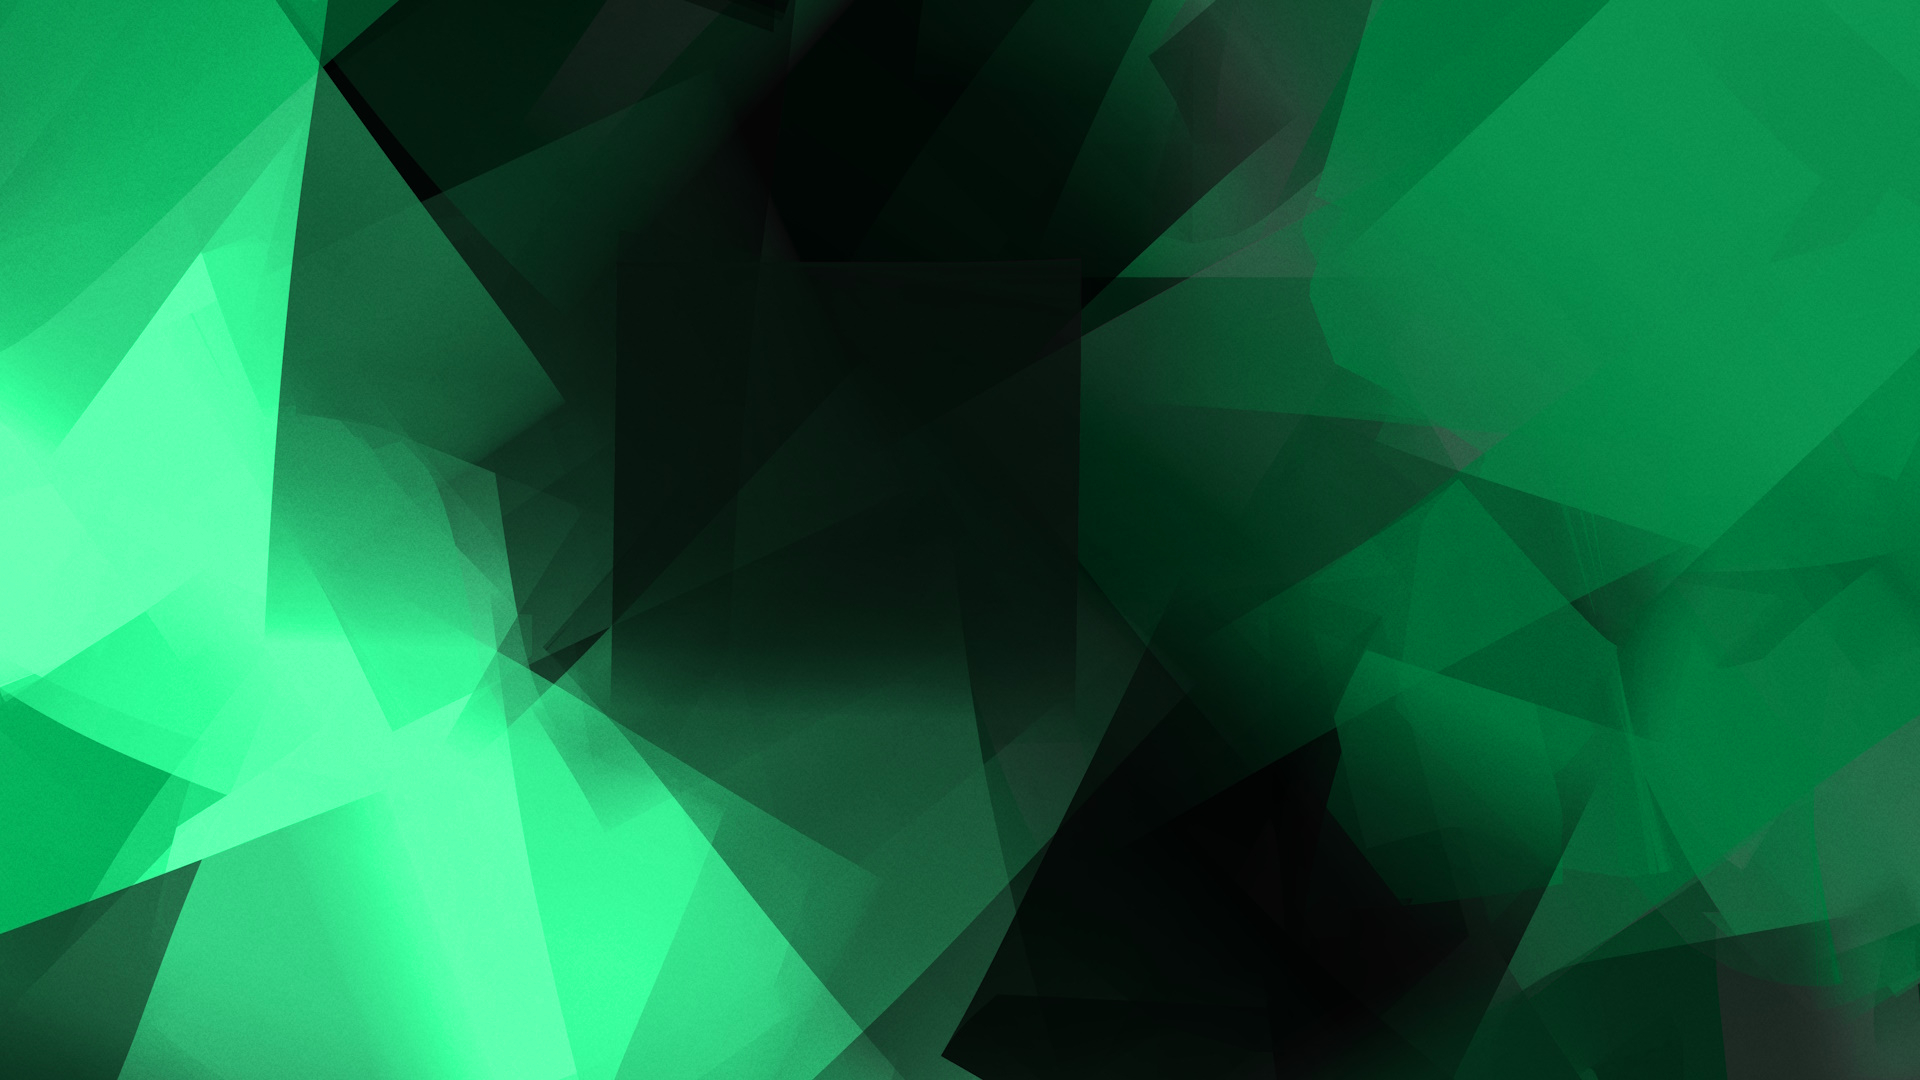
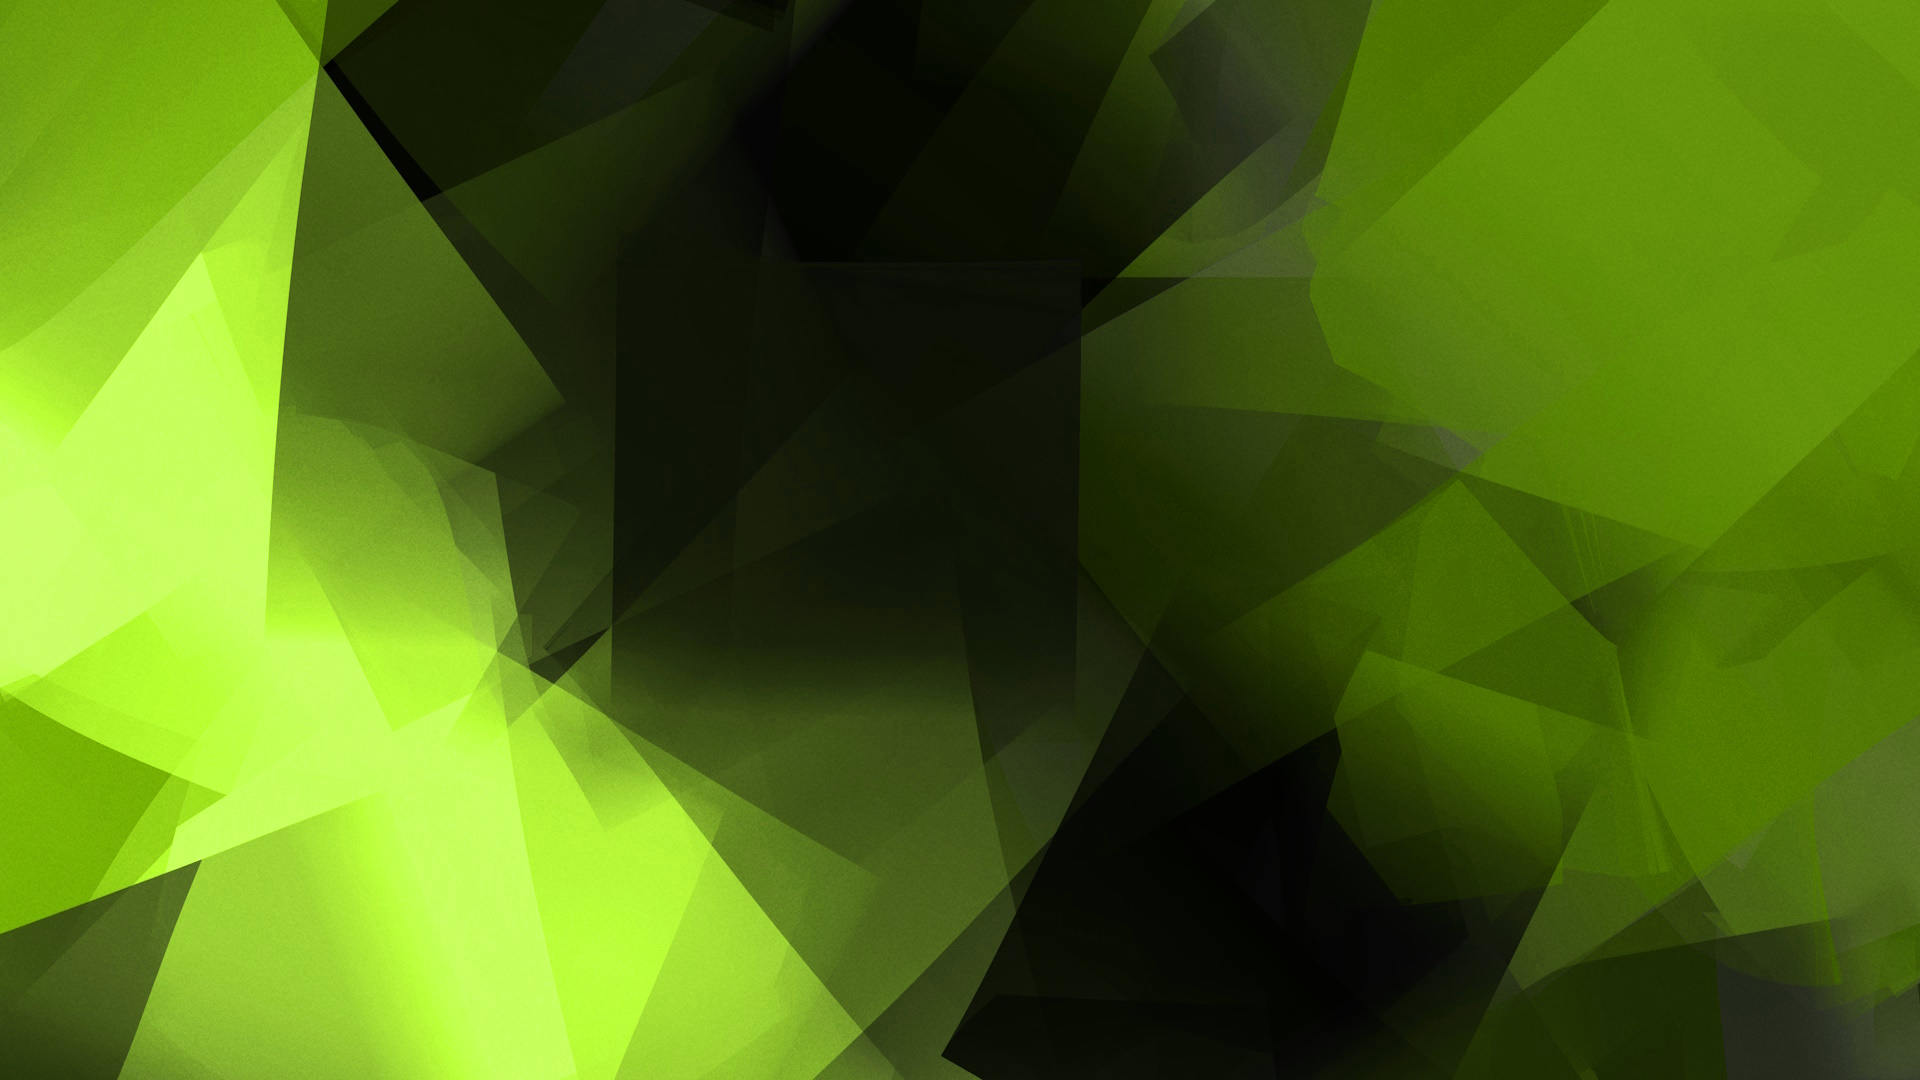
the gif update

diff --git a/palace/2024.html b/palace/2024.html
@@ -17,8 +17,8 @@
      <header id="widget-box">
           <h1 id="widget-name">Alliumchocolate</h1>
           <p id="widget-pronouns">she/they</p>
-          <p class="widget-bio">Hi! Welcome to The Mind Palace project. You're currently in the Northern Tower.</p>
-          <p class="widget-bio"><a href="index.html">Click here to go back.</a></p>
+          <p class="widget-bio">Hi! Welcome to The Palace grounds. You're currently in the tower MMXXIV.</p>
+          <p class="widget-bio"><a href="grounds.html">Click here to go back.</a></p>
      </header>
      
      <!-- the tower structure -->  
@@ -27,14 +27,14 @@
      <!-- Introduction post -->
      <article class="in-tower">
           <h1 class="centered">TOWER MMXXIV</h1>
-          <p>This tower stands tall above the clouds, shining in gold plating. You get a sense this structure has been built with great effort, yet it composes a serene scene.</p>
+          <p>This tower stands on solid rock foundation. You get a sense this structure has been built with great effort, yet it composes a serene scene.</p>
           <figure>
                <blockquote cite="@captainskells">The same circle of hell that allium chocolate got their energy and talent from</blockquote>
                <figcaption>quote from <strong>@captianskells</strong>, my friend</figcaption>
           </figure>
      </article>  
      
-     <div style="z-index: 0">
+     <div style="z-index: 1">
      <!-- The 2024 gallery panel -->
      <section class="in-tower" style="z-index: 1">
           <h2 class="centered">And it was 2024</h2>
@@ -362,7 +362,7 @@
      
      <!-- The tower base -->
      <footer class="in-tower" style="z-index: 0">
-          <img class="reset-style" src="/content/2021_footer.png" >
+          <img class="reset-style" src="/content/2024_footer.gif" >
           <h3 class="centered">Tower MMXXIV</h3>
           <div id="footer-nav">
                <a href="2023.html">2023</a>   

diff --git a/palace/2023.html b/palace/2023.html
@@ -17,8 +17,8 @@
      <header id="widget-box">
           <h1 id="widget-name">Alliumchocolate</h1>
           <p id="widget-pronouns">she/they</p>
-          <p class="widget-bio">Hi! Welcome to The Mind Palace project. You're currently in the Northern Tower.</p>
-          <p class="widget-bio"><a href="index.html">Click here to go back.</a></p>
+          <p class="widget-bio">Hi! Welcome to The Palace grounds. You're currently in the tower MMXXIII.</p>
+          <p class="widget-bio"><a href="grounds.html">Click here to go back.</a></p>
      </header>
      
      <!-- the tower structure -->  
@@ -35,7 +35,7 @@
           </figure>
      </article>  
      
-     <div style="z-index: 0">
+     <div style="z-index: 1">
      <!-- The 2023 gallery panel -->
      <section class="in-tower" style="z-index: 1">
           <h2 class="centered">Another year goes by: 2023</h2>
@@ -410,7 +410,7 @@
      
      <!-- The tower base -->
      <footer class="in-tower" style="z-index: 0">
-          <img class="reset-style" src="/content/2021_footer.png" >
+          <img class="reset-style" src="/content/2023_footer.png" >
           <h3 class="centered">Tower MMXXIII</h3>
           <div id="footer-nav">
                <a href="2022.html">2022</a>   

diff --git a/palace/2022.html b/palace/2022.html
@@ -17,8 +17,8 @@
      <header id="widget-box">
           <h1 id="widget-name">Alliumchocolate</h1>
           <p id="widget-pronouns">she/they</p>
-          <p class="widget-bio">Hi! Welcome to The Mind Palace project. You're currently in the Northern Tower.</p>
-          <p class="widget-bio"><a href="index.html">Click here to go back.</a></p>
+          <p class="widget-bio">Hi! Welcome to The Palace grounds. You're currently in the tower MMXXII.</p>
+          <p class="widget-bio"><a href="grounds.html">Click here to go back.</a></p>
      </header>
      
      <!-- the tower structure -->  
@@ -34,7 +34,7 @@
           </figure>
      </article>  
      
-     <div style="z-index: 0">
+     <div style="z-index: 1">
      <!-- The 2022 gallery panel -->
      <section class="in-tower" style="z-index: 1">
           <h2 class="centered">And so the year was 2022</h2>
@@ -325,7 +325,7 @@
      
      <!-- The tower base -->
      <footer class="in-tower" style="z-index: 0">
-          <img class="reset-style" src="/content/2021_footer.png" >
+          <img class="reset-style" src="/content/2022_footer.png" >
           <h3 class="centered">Tower MMXXII</h3>
           <div id="footer-nav">
                <a href="2021.html">2021</a>   

diff --git a/palace/2025_tower.css b/palace/2025_tower.css
@@ -16,7 +16,7 @@ a:link {
 }
 
 a:visited {
-  color: #1807a5;
+  color: #111cc1;
 }
 
 blockquote {
@@ -29,7 +29,7 @@ figcaption {
 }
 
 h1, h2, h3, h4, h5, h6 {
-  color: #2844dc;
+  color: #427ef7;
 }
 
 p {
@@ -64,7 +64,7 @@ p {
   width: 100%;
   height: 1080px;
   
-  background: black url("/content/2024_bg.jpg") no-repeat top;
+  background: black url("/content/2025_bg.jpg") no-repeat top;
   background-size: contain;
 }
   
@@ -80,8 +80,8 @@ p {
   padding-right: 10px;
   
   background: black url("/content/2025_tower.jpg") no-repeat right;
-  border-left: 5px #0053e0 double;
-  border-right: 5px #0053e0 double;
+  border-left: 5px #1676f9 double;
+  border-right: 5px #1676f9 double;
   
   box-shadow: 0 0 5px 1px black;
 }
@@ -104,7 +104,7 @@ p {
   width: 350px;
   height: 125px;
   
-  border: 5px #3b46ff double;
+  border: 5px #c3f53e double;
 
   background-color: black;
   padding: 10px;

diff --git a/palace/2025.html b/palace/2025.html
@@ -17,8 +17,8 @@
      <header id="widget-box">
           <h1 id="widget-name">Alliumchocolate</h1>
           <p id="widget-pronouns">she/they</p>
-          <p class="widget-bio">Hi! Welcome to The Mind Palace project. You're currently in the Northern Tower.</p>
-          <p class="widget-bio"><a href="/index.html">Click here to go back.</a></p>
+          <p class="widget-bio">Hi! Welcome to The Palace grounds. You're currently in the tower MMXXV.</p>
+          <p class="widget-bio"><a href="grounds.html">Click here to go back.</a></p>
      </header>
      
      <!-- the tower structure -->  
@@ -35,7 +35,7 @@
           </figure>
      </article>  
      
-     <div style="z-index: 0">
+     <div style="z-index: 1">
           <!-- The 2025 gallery panel -->
      <section class="in-tower" style="z-index: 1">
           <h2 class="centered">The year is 2025</h2>

diff --git a/palace/2021.html b/palace/2021.html
@@ -17,8 +17,8 @@
      <header id="widget-box">
           <h1 id="widget-name">Alliumchocolate</h1>
           <p id="widget-pronouns">she/they</p>
-          <p class="widget-bio">Hi! Welcome to The Mind Palace project. You're currently in the Northern Tower.</p>
-          <p class="widget-bio"><a href="index.html">Click here to go back.</a></p>
+          <p class="widget-bio">Hi! Welcome to The Palace grounds. You're currently in the tower MMXXI.</p>
+          <p class="widget-bio"><a href="grounds.html">Click here to go back.</a></p>
      </header>
      
      <!-- the tower structure -->  

diff --git a/palace/2022_tower.css b/palace/2022_tower.css
@@ -29,7 +29,7 @@ figcaption {
 }
 
 h1, h2, h3, h4, h5, h6 {
-  color: #1cdd93;
+  color: #9ddd1c;
 }
 
 p {
